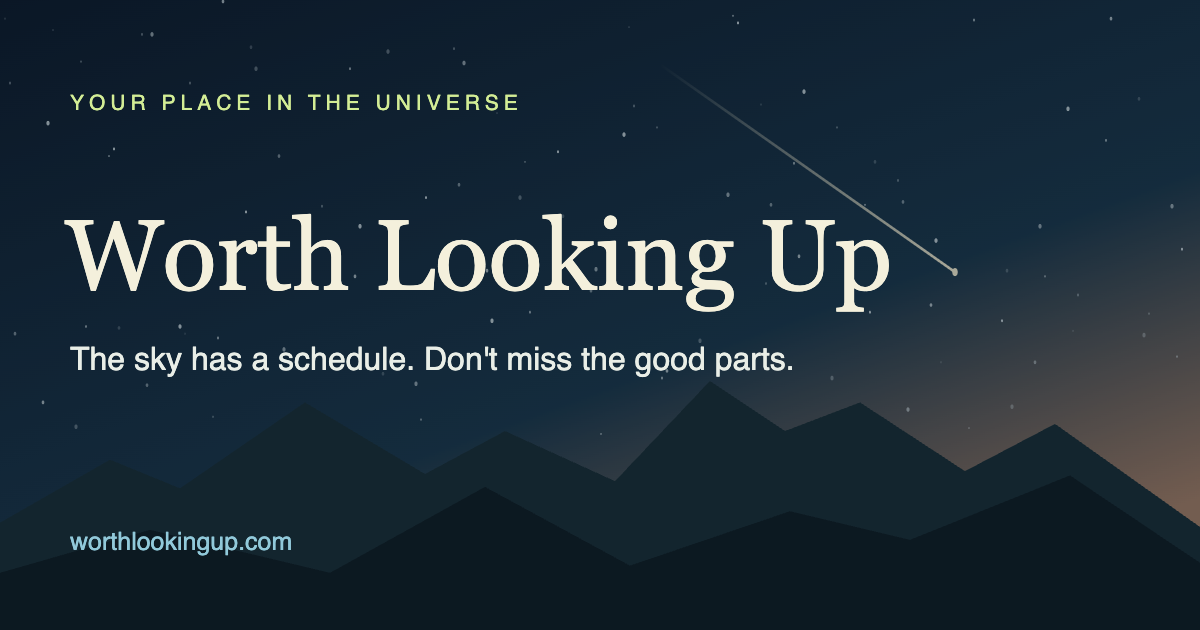
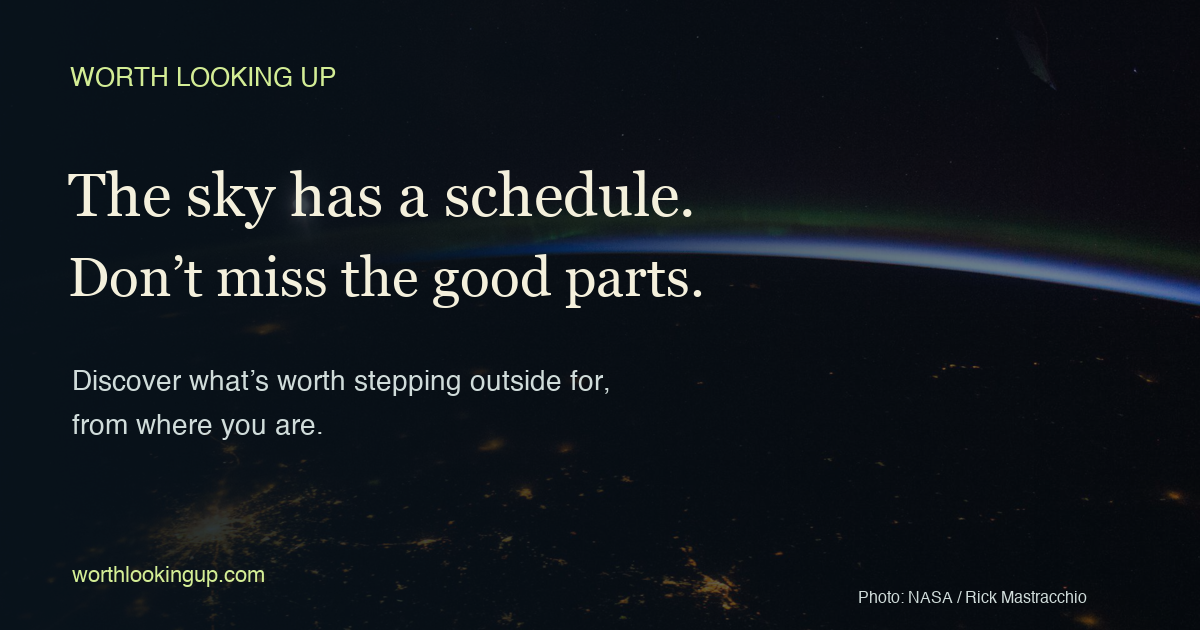
Bring photographic discovery and local observing highlights to the homepage

diff --git a/index.html b/index.html
@@ -14,9 +14,8 @@ document.querySelector('meta[name="theme-color"]').content=document.documentElem
 <meta property="og:type" content="website"><meta property="og:title" content="Worth Looking Up">
 <meta property="og:description" content="The sky has a schedule. Don't miss the good parts.">
 <meta property="og:url" content="https://worthlookingup.com/"><meta property="og:image" content="https://worthlookingup.com/assets/brand/social.png">
-<meta property="og:image:width" content="1200"><meta property="og:image:height" content="630"><meta property="og:image:alt" content="Worth Looking Up — illustrated meteor above a mountain horizon">
+<meta property="og:image:width" content="1200"><meta property="og:image:height" content="630"><meta property="og:image:alt" content="Worth Looking Up — Earth at night photographed from the ISS">
 <meta name="twitter:card" content="summary_large_image">
-<link rel="stylesheet" href="assets/brand/identity.css">
 <script src="preferences-transfer.js" defer></script>
 <script src="vendor/overhead/satellite-6.0.1.min.js" defer></script>
 <script src="vendor/overhead/suncalc-1.9.0.js" defer></script>
@@ -129,17 +128,21 @@ document.querySelector('meta[name="theme-color"]').content=document.documentElem
 .celestial-list{margin:0;padding-left:18px;display:grid;gap:4px;font-size:.85rem;color:var(--muted)}
 @media (max-width:720px){.celestial-card{padding:13px}}
 </style>
+<link rel="stylesheet" href="assets/brand/identity.css">
 </head>
 <body>
+<a class="skip-link" href="#categories">Skip to observing opportunities</a>
 <header><div><div class="brand"><img src="assets/icons/favicon.svg" width="36" height="36" alt="">WORTH LOOKING UP</div><div class="tagline">The sky has a schedule. Don't miss the good parts.</div></div><div class="header-actions"><button id="location-open" class="location-button"><span id="place">Princeton, Indiana ↗</span><span class="small" id="zone-label">Example observing location · change</span></button><button id="settings-open">Settings</button></div></header>
 <main>
 <section class="sky-intro" aria-label="Worth looking up, from where you are">
-<div class="sky-intro-copy"><p class="eyebrow">YOUR PLACE IN THE UNIVERSE</p><h2>A little perspective.<br>A very good reason to step outside.</h2><p>Know when the extraordinary is coming to your corner of the sky.</p><a href="#categories">Find your next sky moment <span aria-hidden="true">↗</span></a></div>
-<img src="assets/imagery/night-sky.svg" width="1200" height="440" alt="Illustration of a meteor crossing a star-filled sky above a mountain horizon" fetchpriority="high">
+<picture><source type="image/webp" srcset="assets/imagery/earth-at-night-640.webp 640w, assets/imagery/earth-at-night-1280.webp 1280w, assets/imagery/earth-at-night-1920.webp 1920w" sizes="(max-width: 720px) 100vw, 1280px"><img src="assets/imagery/earth-at-night.jpg" width="1280" height="851" alt="Earth’s curved horizon, aurora and Moon, photographed from the International Space Station" fetchpriority="high"></picture>
+<div class="sky-intro-copy"><p class="eyebrow">A LOCAL GUIDE TO THE NIGHT SKY</p><h2>Some nights deserve<br>an audience.</h2><p>Find what’s worth stepping outside to see.<br>From where you are. At just the right time.</p><a class="hero-action" href="#categories">Explore your sky <span aria-hidden="true">↓</span></a></div>
+<a class="photo-credit" href="https://images.nasa.gov/details/iss039e009160" target="_blank" rel="noopener">From the ISS · NASA / Rick Mastracchio ↗</a>
 </section>
 <div class="toolbar"><nav class="tabs" role="tablist" aria-label="Observing period"><button role="tab" data-view="now" aria-selected="false">NOW</button><button role="tab" data-view="tonight" aria-selected="true">TONIGHT</button><button role="tab" data-view="week" aria-selected="false">NEXT 7 DAYS</button><button role="tab" data-view="about" aria-selected="false">ABOUT</button></nav><span class="small" id="local-clock"></span></div>
 <section id="happening-now" class="happening-now" aria-label="Happening now" hidden></section>
-<div class="toolbar" id="categories"><nav class="tabs" role="tablist" aria-label="Observing category"><button role="tab" data-category="satellites" aria-selected="true">SATELLITES</button><button role="tab" data-category="launches" aria-selected="false">ROCKET LAUNCHES</button><button role="tab" data-category="planets" aria-selected="false">PLANETS &amp; ALIGNMENTS</button><button role="tab" data-category="meteors" aria-selected="false">METEOR SHOWERS</button><button role="tab" data-category="comets" aria-selected="false">COMETS &amp; SPECIAL EVENTS</button></nav><span class="small" id="category-note">Satellite passes and trains</span></div>
+<div class="toolbar" id="categories" tabindex="-1"><nav class="tabs" role="tablist" aria-label="Observing category"><button role="tab" data-category="satellites" aria-selected="true">SATELLITES</button><button role="tab" data-category="launches" aria-selected="false">ROCKET LAUNCHES</button><button role="tab" data-category="planets" aria-selected="false">PLANETS &amp; ALIGNMENTS</button><button role="tab" data-category="meteors" aria-selected="false">METEOR SHOWERS</button><button role="tab" data-category="comets" aria-selected="false">COMETS &amp; SPECIAL EVENTS</button></nav><span class="small" id="category-note">Satellite passes and trains</span></div>
+<section id="weekly-card" class="weekly-card" aria-label="Best Thing This Week"><div class="eyebrow">BEST THING THIS WEEK</div><p>Comparing seven nights of observations…</p></section>
 <section id="celestial" class="celestial" hidden aria-label="Celestial observing plan">
 <div class="celestial-head"><div><div class="eyebrow" id="celestial-eyebrow">PLANETS &amp; ALIGNMENTS</div><h1 id="celestial-headline">What is worth going outside for</h1><p class="small" id="celestial-summary">Choosing a planning window…</p></div><div class="night-score"><strong id="celestial-top-score">—</strong><span id="celestial-score-label">BEST OPPORTUNITY / 100</span></div></div>
 <div class="celestial-controls" role="radiogroup" aria-label="Planning window"><button type="button" role="radio" data-horizon="tonight" aria-checked="true">TONIGHT</button><button type="button" role="radio" data-horizon="week" aria-checked="false">NEXT 7 DAYS</button><button type="button" role="radio" data-horizon="extended" aria-checked="false">NEXT 90 DAYS</button></div>
@@ -152,7 +155,6 @@ document.querySelector('meta[name="theme-color"]').content=document.documentElem
 </section>
 <section class="briefing" aria-label="Observing briefing"><div><div class="eyebrow" id="night-label">YOUR EVENING FIELD NOTES</div><h1 id="headline">Let’s see what’s overhead.</h1><p id="brief">Checking orbital data and the forecast for your observing location.</p></div><div class="night-score"><strong id="night-score">—</strong><span>SKYWATCH SCORE / 100</span></div></section>
 <div id="status" class="status" role="status" aria-live="polite">Loading local calculation tools…</div><div class="progress" aria-hidden="true"><div id="progress"></div></div>
-<section id="weekly-card" class="weekly-card" aria-label="Best Thing This Week"><div class="eyebrow">BEST THING THIS WEEK</div><p>Comparing seven nights of observations…</p></section>
 <p id="weekly-tonight" class="small" hidden></p>
 <section id="about" class="about" hidden aria-label="About Worth Looking Up">
 <div class="eyebrow">ABOUT WORTH LOOKING UP</div>
@@ -240,12 +242,12 @@ document.querySelector('meta[name="theme-color"]').content=document.documentElem
 <details id="how-it-works"><summary>How the recommendation works</summary><p>The night’s score is the best remaining satellite opportunity among your selected categories. It is not a weather score. A “likely visible” segment needs at least 20 seconds above your minimum elevation, with the Sun at least 6° below the horizon and the spacecraft fully sunlit. Buildings, trees, haze and object orientation can still prevent a sighting.</p><p>Base points: elevation 25, useful visible duration 15, sunlight 10, observer darkness 15, brightness category 10, cloud cover 20, and visibility 5. Cloud, poor visibility and rain then reduce the total. Unknown weather earns no weather points and makes the result provisional. No precise apparent magnitude is claimed. <a href="docs/overhead.md">Full algorithm, validation and limitations →</a></p><p>The Moon panel is informational and does not raise the satellite score. A quiet satellite night can still be a lovely night for stargazing.</p></details>
 <details id="diagnostics"><summary>Data & diagnostics</summary><div class="actions"><button id="refresh">Refresh source data</button><button id="clear-cache">Clear downloaded cache</button><label class="text-button">Import OMM JSON / TLE<input id="import" type="file" accept=".json,.txt,.tle" aria-label="Import orbital elements"></label></div><p>Import up to 2 MB of orbital elements from a trusted source if CelesTrak is unavailable. Imported records stay in this session and use their actual epoch; records more than 14 days from a prediction are excluded.</p><pre id="diagnostic-output"></pre></details>
 </main>
-<!-- WORTHLOOKINGUP_DEPLOY_FOOTER version="2026.10.15.3" bump="Update this version whenever this file changes in a commit." (marker sits directly above the single site footer) -->
-<footer class="site-footer" data-worthlookingup-deploy-footer data-deploy-version="2026.10.15.3">
+<!-- WORTHLOOKINGUP_DEPLOY_FOOTER version="2026.10.15.4" bump="Update this version whenever this file changes in a commit." (marker sits directly above the single site footer) -->
+<footer class="site-footer" data-worthlookingup-deploy-footer data-deploy-version="2026.10.15.4">
 <div class="footer-tagline">CALCULATED HERE. OBSERVED OUT THERE.</div>
 <div class="footer-sources">Orbital data: <a href="https://celestrak.org/NORAD/elements/">CelesTrak</a> · Weather: <a href="https://open-meteo.com/">Open-Meteo</a> · Predictions calculated locally with SGP4 · No account or API key</div>
 <div id="freshness" class="footer-freshness">Source freshness will appear here.</div>
-<div class="footer-meta">© 2026 Hank Marquardt · Worth Looking Up · version 2026.10.15.3 · <a href="docs/privacy.md">Privacy &amp; data sources</a></div>
+<div class="footer-meta">© 2026 Hank Marquardt · Worth Looking Up · version 2026.10.15.4 · <a href="docs/privacy.md">Privacy &amp; data sources</a></div>
 </footer>
 <dialog id="location-dialog" aria-labelledby="location-title"><div class="dialog-heading"><h2 id="location-title">Where will you look up?</h2><button class="close" data-close aria-label="Close location settings">×</button></div><form id="search-form"><label>Search city or place<input id="search" placeholder="Princeton, London, Cape Town…" minlength="2" maxlength="100" required></label><div class="actions"><button type="submit">Search places</button><button type="button" id="geolocate">Use my location</button></div></form><div id="search-results" class="results"></div><p id="location-status" class="privacy" role="status"></p><form id="coordinate-form" class="grid" style="margin-top:20px"><label class="full">Location name<input id="location-name" maxlength="60" required></label><label>Latitude<input id="latitude" type="number" min="-90" max="90" step="any" required></label><label>Longitude<input id="longitude" type="number" min="-180" max="180" step="any" required></label><label class="full">Timezone (IANA name; blank for automatic lookup)<input id="timezone" placeholder="America/Chicago" maxlength="80"></label><button class="primary full" type="submit">Use this location</button></form><div class="actions"><button id="save-location">Save current location</button></div><div id="saved-locations"></div><p class="privacy">Coordinates go to Open-Meteo for weather and timezone lookup. Place searches go to its geocoding service. Saved sites stay in this browser (up to 12). This page includes the Worth Looking Up Analytics Lite tracker; map tiles load only when you open the map.</p></dialog>
 <dialog id="settings-dialog" aria-labelledby="settings-title"><div class="dialog-heading"><h2 id="settings-title">Make it your night</h2><button class="close" data-close aria-label="Close settings">×</button></div><form id="settings-form" class="grid"><label>Minimum elevation<select name="minimum"><option value="10">10° · open horizon</option><option value="20">20°</option><option value="30">30°</option><option value="45">45° · high overhead</option></select></label><label>Minimum sighting score<input name="score" type="number" min="0" max="100" step="1"></label><label class="full">Show<select name="show"><option value="likely">Likely visible</option><option value="great">Great opportunities only (75+)</option><option value="all">All calculated orbital passes</option></select></label><label>Units<select name="units"><option value="imperial">Imperial</option><option value="metric">Metric</option></select></label><label>Clock<select name="clock"><option value="12">12-hour</option><option value="24">24-hour</option></select></label><button type="submit" class="primary full">Apply settings</button></form><div class="theme-setting"><span id="theme-label">Appearance</span><div class="theme-switch" role="group" aria-labelledby="theme-label"><button type="button" data-theme-choice="light" aria-pressed="false" aria-label="Use light theme">☀ Light</button><button type="button" data-theme-choice="dark" aria-pressed="true" aria-label="Use dark theme">☾ Dark</button></div></div><details class="preferences-transfer"><summary>Move your saved places &amp; preferences</summary><p>Import an Overhead export or back up this device. Location, up to 12 saved sites, 100 favorites, settings and theme are included. Downloads and analytics identifiers are excluded. Import replaces these preferences on this device after validation; your original Overhead data stays intact.</p><div class="actions"><button type="button" id="preferences-export">Export preferences</button><label>Import preferences<input id="preferences-import" type="file" accept="application/json,.json"></label></div><p id="preferences-status" role="status" aria-live="polite"></p><p><a href="docs/storage-migration.md">How to export from the original Overhead →</a></p></details><p class="privacy">Map gestures are always conservative: wheel, pinch, rotation and double-click zoom are disabled. Use the explicit + / − buttons. Touch scrolling stays with the page.</p></dialog>

diff --git a/assets/brand/identity.css b/assets/brand/identity.css
@@ -1,1 +1,19 @@
-.brand{font-size:clamp(.85rem,1.6vw,1.25rem);letter-spacing:2px;line-height:1.3}.brand img{flex:none}.tagline{max-width:430px;line-height:1.5}.sky-intro{position:relative;isolation:isolate;overflow:hidden;min-height:230px;border:1px solid var(--line);border-radius:8px;margin:4px 0 26px;background:#0c1926;color:#f4f0dc}.sky-intro>img{position:absolute;inset:0;width:100%;height:100%;object-fit:cover;z-index:-1}.sky-intro-copy{padding:30px 32px;max-width:620px;background:linear-gradient(90deg,#0c1926e8,#0c192685,transparent)}.sky-intro .eyebrow{color:#d3ed95}.sky-intro h2{font-family:Georgia,'Times New Roman',serif;font-size:clamp(1.4rem,2.6vw,2.3rem);font-weight:400;line-height:1.15;margin:13px 0}.sky-intro-copy>p:not(.eyebrow){font-size:.85rem;color:#c6d8dd;line-height:1.6}.sky-intro a{display:inline-block;color:#e7efa6;font-size:.8rem;margin-top:16px;text-underline-offset:5px}.preferences-transfer{margin-top:16px}.preferences-transfer label{max-width:260px}@media(max-width:720px){header{flex-wrap:wrap;gap:12px}.header-actions{width:100%;justify-content:space-between}.location-button{text-align:left;padding-left:0}.sky-intro{min-height:200px;margin-bottom:18px}.sky-intro-copy{padding:22px 18px;max-width:90%}.sky-intro h2{font-size:1.6rem}.brand{font-size:1.02rem;letter-spacing:2px}.tagline{font-size:.72rem}.tabs{gap:16px}.sky-intro>img{object-position:65% center}}@media(prefers-reduced-motion:reduce){html{scroll-behavior:auto}}
+/* Editorial presentation; scientific palette meanings and application IDs are stable. */
+:root{--bg:#0d171e;--panel:#14232c;--line:#30434d;--ink:#f1f0e8;--muted:#adbdc4;--lime:#d3edaa;--blue:#a1cedf;--amber:#efc58f}
+:root[data-theme=light]{--bg:#f5f3ed;--panel:#fffef9;--line:#c5cdc9;--ink:#182c35;--muted:#4d626b;--lime:#355a29;--blue:#245b72;--amber:#80501d}
+body{line-height:1.5}header,main,.site-footer{max-width:1320px}header{padding-top:22px;padding-bottom:20px}.brand{font-size:clamp(.95rem,1.5vw,1.2rem);letter-spacing:2.1px;line-height:1.3;gap:10px}.brand img{flex:none}.tagline{line-height:1.5;font-size:.75rem;letter-spacing:0;margin-top:7px}.header-actions{gap:12px}.location-button{border:1px solid var(--line);text-align:left;padding:8px 14px;border-radius:5px;max-width:290px;overflow-wrap:anywhere;min-height:44px}#settings-open{position:static;min-height:44px;font-size:.8rem;padding:10px 13px}
+.skip-link{position:absolute;top:-100px;left:20px;z-index:10;background:var(--bg);padding:12px;border:2px solid var(--lime)}.skip-link:focus{top:10px}
+.sky-intro{position:relative;isolation:isolate;overflow:hidden;min-height:270px;border:1px solid var(--line);border-radius:6px;margin:0 0 18px;background:#0b1924 url('../imagery/night-sky.svg') center/cover;color:#f5f2e7}
+.sky-intro picture{position:absolute;inset:0;z-index:-2}.sky-intro picture img{width:100%;height:100%;object-fit:cover;object-position:center 58%;display:block}.sky-intro:after{content:'';position:absolute;inset:0;z-index:-1;background:linear-gradient(90deg,rgba(6,17,25,.97),rgba(6,17,25,.76) 38%,rgba(6,17,25,.06) 76%)}
+.sky-intro-copy{padding:26px 32px 30px;max-width:650px}.sky-intro .eyebrow{color:#d3edaa;font-size:.65rem;letter-spacing:2.3px}.sky-intro h2{font-family:Georgia,'Times New Roman',serif;font-size:clamp(2rem,3.8vw,3.3rem);font-weight:400;line-height:1.05;letter-spacing:-1.5px;margin:12px 0}.sky-intro-copy>p:not(.eyebrow){font-size:.87rem;color:#d4dfe2;line-height:1.6}.hero-action{display:inline-flex;align-items:center;gap:26px;min-height:44px;color:#e4f3c2;font-size:.82rem;text-decoration:none;border-bottom:1px solid #b6c696;margin-top:9px}.hero-action:hover{color:white}.photo-credit{position:absolute;right:14px;bottom:10px;font-size:.65rem;color:#e6ecee;background:#09151de6;padding:5px 8px;text-decoration:none;border-radius:3px}.photo-credit:hover{text-decoration:underline}
+.toolbar{margin-bottom:14px;gap:12px}.tabs{gap:25px}.tabs button{min-height:48px;padding:12px 0;letter-spacing:1px;font-size:.7rem}.toolbar>.small{font-size:.7rem}#categories{scroll-margin-top:12px;border-top:0;margin-bottom:18px}#categories .tabs{flex:1;gap:0;display:grid;grid-template-columns:repeat(5,minmax(0,1fr));overflow:visible}#categories .tabs button{padding:11px 10px;line-height:1.5;letter-spacing:.7px;font-size:.64rem;white-space:normal;text-align:center}#category-note{display:none}
+.weekly-card{position:relative;margin-bottom:22px;border:1px solid var(--line);border-left:3px solid var(--blue);border-radius:5px;padding:18px 22px;background:var(--panel)}.weekly-card .eyebrow{font-size:.65rem}.weekly-main{margin-top:6px;gap:8px 24px}.weekly-open{font-family:Georgia,'Times New Roman',serif;font-size:1.4rem;font-weight:400;line-height:1.25;min-height:44px}.weekly-open span{font-family:'Avenir Next',Avenir,'Segoe UI',sans-serif;font-size:.82rem;margin-top:5px}.weekly-grade{font-size:.76rem;padding:6px 9px}.weekly-facts{margin:7px 0 4px;font-size:.8rem}.weekly-context{margin-top:4px;font-size:.76rem;line-height:1.6}.weekly-scope{font-size:.69rem;margin-top:5px;line-height:1.6}
+.briefing{padding:2px 0 16px;gap:18px}.briefing h1{font-family:Georgia,'Times New Roman',serif;font-size:clamp(1.55rem,2.8vw,2.3rem);font-weight:400;line-height:1.15;margin:8px 0}.briefing p{font-size:.85rem;max-width:72ch}.night-score strong{font-size:3.6rem}.night-score{min-width:120px;padding-left:24px}.night-score span{font-size:.6rem}.status{margin-bottom:16px;padding:9px 12px;font-size:.76rem}.section-heading{margin-bottom:10px}.section-heading h2{font-size:1rem}.event{padding:20px 10px;border-radius:3px}.event h3{font-size:1.12rem;font-weight:600}.event .category{font-size:.63rem}.event .route{font-size:.8rem}.event .score{font-size:1.6rem}.event.selected{background:var(--panel)}.celestial-card{border-radius:6px;padding:20px;gap:12px;overflow-wrap:anywhere}.celestial-card h3{font-family:Georgia,'Times New Roman',serif;font-size:1.35rem;font-weight:400;line-height:1.3}.celestial-head h1{font-family:Georgia,'Times New Roman',serif;font-weight:400}.launch-card{border-top:2px solid var(--blue)}.launch-card .launch-unknown{border-left:2px solid var(--amber);padding-left:10px}.launch-links a{display:inline-flex;align-items:center;min-height:44px}.launch-countdown{font-size:1.35rem}.celestial-chip,.launch-status{white-space:normal}.celestial-source a{overflow-wrap:anywhere}.celestial-controls button,.chip{min-height:44px}.chart-panel{border-radius:6px}.site-footer{font-size:.73rem}.preferences-transfer{margin-top:16px}.preferences-transfer label{max-width:260px}
+@media(max-width:900px){header,main,.site-footer{padding-left:24px;padding-right:24px}.header-actions{gap:8px}.brand{letter-spacing:1.3px}.tagline{max-width:310px}.location-button{max-width:200px;font-size:.8rem}.sky-intro{min-height:255px}.sky-intro h2{font-size:2.6rem}.tabs{gap:20px}}
+@media(max-width:720px){header,main,.site-footer{padding-left:18px;padding-right:18px}header{display:grid;gap:12px;padding-top:16px;padding-bottom:14px}.brand{font-size:1.03rem;letter-spacing:1.7px}.brand img{width:30px;height:30px}.tagline{font-size:.68rem;max-width:none;margin-top:4px}.header-actions{width:100%;justify-content:space-between;gap:12px}.location-button{max-width:calc(100% - 88px);padding:5px 0;border:0;font-size:.8rem;min-height:44px}.location-button .small{font-size:.65rem}#settings-open{font-size:.74rem;padding:8px 11px}.sky-intro{min-height:210px;margin-bottom:10px}.sky-intro-copy{padding:17px 18px 28px;max-width:92%}.sky-intro .eyebrow{font-size:.55rem;letter-spacing:1.7px}.sky-intro h2{font-size:2rem;letter-spacing:-.8px;margin:9px 0}.sky-intro-copy>p:not(.eyebrow){font-size:.77rem;line-height:1.5}.hero-action{font-size:.77rem;margin-top:3px;min-height:44px}.sky-intro picture img{object-position:62% 55%}.sky-intro:after{background:linear-gradient(90deg,#061119f5,#0611199c 60%,#06111933)}.photo-credit{font-size:.54rem;bottom:5px;right:7px;padding:2px 5px}.toolbar{margin-bottom:8px}.tabs{gap:20px}.tabs button{font-size:.61rem;letter-spacing:.6px;min-height:44px;padding:10px 0}.toolbar>.small{display:none}#categories{margin-bottom:14px}#categories .tabs{grid-template-columns:repeat(3,minmax(0,1fr));gap:0 5px}#categories .tabs button{font-size:.59rem;padding:7px 3px;min-height:44px}#categories .tabs button:last-child{grid-column:span 2}.weekly-card{padding:12px 14px;margin-bottom:18px}.weekly-main{grid-template-columns:minmax(0,1fr);gap:6px}.weekly-open{font-size:1.2rem}.weekly-open span{font-size:.76rem}.weekly-grade{font-size:.7rem;padding:3px 7px}.weekly-facts{font-size:.75rem}.weekly-context{font-size:.72rem}.weekly-scope{font-size:.65rem}.briefing{padding-bottom:14px;gap:12px}.briefing h1{font-size:1.6rem}.briefing p{font-size:.8rem}.night-score{min-width:65px;padding-left:12px;margin-top:20px}.night-score strong{font-size:2.8rem}.night-score span{font-size:.54rem}.event{padding:18px 2px;grid-template-columns:72px minmax(0,1fr) 48px;gap:8px}.event h3{font-size:1.03rem}.event .route{font-size:.74rem}.celestial-card{padding:16px}.celestial-card h3{font-size:1.2rem}.launch-countdown{font-size:1.1rem}.celestial-head{gap:12px}.celestial-controls{gap:6px}.celestial-controls button{font-size:.72rem;padding:9px 11px}.launches-actions button{min-height:44px}.celestial-positions{font-size:.74rem}.section-heading small{max-width:120px}.filters{gap:6px;margin:10px 0}.chip{padding:7px 10px}.sky-intro a:focus-visible{outline-color:#e4f3c2}}
+@media(prefers-reduced-motion:reduce){html{scroll-behavior:auto}}
+/* Reserve the live weekly result before orbital workers finish, avoiding content jumps. */
+.weekly-card{min-height:255px}
+@media(max-width:900px) and (min-width:721px){.weekly-card{min-height:280px}}
+@media(max-width:720px){.weekly-card{min-height:350px}}
+@media(max-width:720px){.celestial-head{display:grid;grid-template-columns:minmax(0,1fr) 65px;align-items:start}.celestial-head .night-score{margin-top:24px;min-width:0;padding-left:10px}.celestial-head h1{font-size:1.6rem}.celestial-head .night-score strong{font-size:2.5rem}}

diff --git a/tests/homepage.spec.js b/tests/homepage.spec.js
@@ -1,0 +1,63 @@
+const {test,expect}=require('@playwright/test');
+const path=require('node:path');
+const fs=require('node:fs');
+const iss={OBJECT_NAME:'ISS (ZARYA)',OBJECT_ID:'1998-067A',EPOCH:'2026-09-07T11:57:47.376864',MEAN_MOTION:15.49018229,ECCENTRICITY:.00049836,INCLINATION:51.6306,RA_OF_ASC_NODE:252.7093,ARG_OF_PERICENTER:115.8922,MEAN_ANOMALY:244.258,NORAD_CAT_ID:25544,BSTAR:.00010434666,MEAN_MOTION_DOT:.00005306,MEAN_MOTION_DDOT:0};
+async function boot(page,{images=true}={}){
+ await page.clock.setFixedTime(new Date('2026-09-07T18:00Z'));
+ await page.route('**/api/analytics/**',r=>r.fulfill({status:204,body:''}));
+ await page.route('**celestrak.org/**',r=>r.fulfill({json:[iss]}));
+ await page.route('**api.open-meteo.com/**',r=>r.fulfill({json:{error:'unavailable'}}));
+ if(!images)await page.route('**/earth-at-night*',r=>r.abort());
+ await page.goto('file://'+path.resolve('index.html'));
+ await page.waitForFunction(()=>window.__OVERHEAD_TEST__&&!__OVERHEAD_TEST__.state.busy);
+ await expect(page.locator('.weekly-open')).toBeVisible();
+}
+test('photographic discovery exposes real opportunities, every category and both themes at all widths',async({page})=>{
+ await boot(page);
+ const evidence=[];
+ for(const width of [390,768,1280,1440]){
+  await page.setViewportSize({width,height:900});
+  for(const theme of ['dark','light']){
+   await page.evaluate(t=>document.querySelector('[data-theme-choice="'+t+'"]').click(),theme);
+   await expect(page.locator('.weekly-open')).toContainText('ISS');
+   await expect(page.locator('#weekly-card')).toContainText('Cloud forecast unavailable');
+   const geometry=await page.evaluate(()=>{
+    const r=s=>document.querySelector(s).getBoundingClientRect();
+    const location=r('#location-open'),settings=r('#settings-open');
+    return {width:innerWidth,scroll:document.documentElement.scrollWidth,hero:r('.sky-intro').height,highlight:r('.weekly-open').top,overlap:location.right>settings.left&&location.bottom>settings.top&&settings.bottom>location.top};
+   });
+   expect(geometry.scroll).toBe(geometry.width);expect(geometry.overlap).toBe(false);
+   expect(geometry.highlight).toBeLessThan(650);
+   if(width===390)expect(geometry.hero).toBeLessThan(240);
+   for(const tab of await page.locator('#categories [role=tab]').all()){
+    const box=await tab.boundingBox();expect(box.height).toBeGreaterThanOrEqual(44);expect(box.x).toBeGreaterThanOrEqual(0);expect(box.x+box.width).toBeLessThanOrEqual(width);
+   }
+   const img=page.locator('.sky-intro img');expect(await img.evaluate(e=>e.complete&&e.naturalWidth>0)).toBe(true);
+   expect(await img.evaluate(e=>e.currentSrc)).toMatch(/earth-at-night-\d+\.webp/);
+   await page.screenshot({path:`/tmp/wlu-final-${theme}-${width}.png`,fullPage:true});evidence.push({...geometry,theme});
+  }
+ }
+ fs.writeFileSync('/tmp/wlu-responsive.json',JSON.stringify(evidence,null,2));
+ await page.evaluate(()=>window.scrollTo(0,0));await page.keyboard.press('Tab');
+ await expect(page.locator('.skip-link')).toBeFocused();await page.keyboard.press('Enter');
+ await expect(page.locator('#categories')).toBeFocused();
+ const tabs=page.locator('#categories [role=tab]');await tabs.first().focus();await page.keyboard.press('ArrowRight');
+ await expect(tabs.nth(1)).toBeFocused();await tabs.first().click();
+ await page.locator('#location-open').click();await expect(page.locator('#location-dialog')).toBeVisible();await page.keyboard.press('Escape');
+ await page.locator('.weekly-open').click();await expect(page.locator('#event-dialog')).toBeVisible();await page.keyboard.press('Escape');
+});
+test('failed photographs preserve the hero action, geometry and calculated event',async({page})=>{
+ await page.setViewportSize({width:390,height:900});await boot(page,{images:false});
+ await expect(page.locator('.sky-intro h2')).toHaveText('Some nights deservean audience.');
+ await expect(page.getByRole('link',{name:'Explore your sky'})).toBeVisible();
+ expect(await page.locator('.sky-intro').evaluate(e=>getComputedStyle(e).backgroundImage)).toContain('night-sky.svg');
+ expect((await page.locator('.sky-intro').boundingBox()).height).toBeLessThan(240);
+ await page.getByRole('link',{name:'Explore your sky'}).click();await expect(page.locator('#categories')).toBeFocused();
+ await expect(page.locator('.weekly-open')).toContainText('ISS');
+});
+test('every responsive photograph is local, staged, and covered by source provenance',async()=>{
+ const provenance=JSON.parse(fs.readFileSync('assets/provenance.json'));
+ const photo=provenance.assets.find(x=>x.creator.includes('Mastracchio'));
+ expect(photo.license_url).toBe('https://www.nasa.gov/nasa-brand-center/images-and-media/');
+ for(const file of photo.paths){expect(fs.existsSync('assets/'+file)).toBe(true);expect(fs.readFileSync('dist/assets/'+file)).toEqual(fs.readFileSync('assets/'+file));}
+});

diff --git a/docs/phase-2-release.md b/docs/phase-2-release.md
@@ -1,0 +1,77 @@
+# Photographic homepage release — 2026.10.15.4
+
+## Result
+A compact NASA Earth-at-night hero, editorial typography, dark ink and warm paper themes,
+visible location control, all five categories visible on mobile, and the existing calculated weekly
+highlight before the detailed briefing. No new ranking, feed requests, framework or client dependency.
+Astronomy engines, scientific fixtures, lifecycle, storage schema and scoring are unchanged.
+
+## Measurements
+Chrome headless, 900px viewport height, same deterministic ISS orbit and fixed 2026-09-07 clock,
+weather unavailable to exercise honest provisional labels. Coordinates are document CSS pixels.
+The first useful event is the existing weekly calculated opportunity button, not the hero CTA.
+
+| Width | Highlight before → after | Event-list row before → after | Hero before → after | CLS before → after | LCP before → after (ms) |
+| --- | --- | --- | --- | --- | --- |
+| 390 | 963 → 558 | 1497 → 1318 | 243 → 222 | .034 → .015 | 120 → 184 |
+| 768 | 842 → 569 | 1242 → 1177 | 230 → 273 | .016 → .060 | 68 → 64 |
+| 1280 | 860 → 584 | 1205 → 1130 | 235 → 294 | .005 → .001 | 60 → 88 |
+| 1440 | 867 → 586 | 1212 → 1131 | 238 → 295 | .004 → .001 | 56 → 64 |
+
+These are local unthrottled single-run lab observations, not field Core Web Vitals or a mobile-network
+performance claim. The photo is 9.1KB at 640px, 31KB at 1280px, 84KB at 1920px; JPEG fallback 89KB.
+Reserved weekly-card height removes the initial draft's .276 mobile CLS. Tablet remains .060, primarily
+asynchronous briefing/data changes; all observed totals below .1. Arbitrarily long content can grow.
+Do not hide warnings to improve geometry. No horizontal overflow at any tested width in either theme.
+
+## Visual evidence
+Actual production-before screenshots were captured in Chrome. The production-before and local
+fixture render had identical geometry. After screenshots use the same deterministic orbit, with
+explicit missing-weather/provisional warnings. Inspect:
+- [Before mobile](screenshots/before-mobile.png), [before desktop](screenshots/before-desktop.png).
+- [After mobile dark](screenshots/after-mobile-dark.png), [desktop dark](screenshots/after-desktop-dark.png).
+- [After mobile light](screenshots/after-mobile-light.png), [desktop light](screenshots/after-desktop-light.png).
+Full four-width/two-theme captures also at /tmp/wlu-final-{dark,light}-{390,768,1280,1440}.png.
+Launch screenshots at /tmp/worthlookingup-launches-{dark,light}-{390,768,1024,1440}.png.
+
+## Rights and accessibility
+One photograph: NASA/JSC iss039e009160, Rick Mastracchio, Expedition 39. Catalog and NASA media-use
+policy inspected; named astronaut photographer, no third-party credit, no identifiable person or NASA
+logo in frame. Credit is visible and linked. Full source, policy, dates and modifications are in
+assets/provenance.json. Original illustration remains a local background if the photo cannot load.
+Sharing preview uses the same credited photo, locally served. No endorsement claimed.
+
+Added keyboard skip link; all category controls and primary actions have 44px minimum height.
+Focus rings, dialogs, reduced motion, charts, sources and uncertainty labels retained. Both themes
+visually inspected. Image-failure test preserves content/action/geometry. No formal screen-reader
+or complete WCAG audit was performed. Launch visibility remains unknown and optical-aid/cloud/
+precision labels remain text, with existing semantic colors. No global launch enters local scores.
+
+## Checks
+- npm ci completed.
+- npm test: scientific, launch, migration, source hashes, storage and redirect suites passed unchanged.
+- Existing browser suite: 32 passed, 2 opt-in live-provider tests skipped.
+- New homepage suite: 3 passed (hierarchy, all widths/themes, keyboard/dialogs, photo failure, staged assets).
+- Python precision: 6 passed; comet --check, comet --no-network and meteor --check passed.
+- npm run build, npm run check and launch-feed offline validation passed.
+- Production verifier now checks every photo derivative's exact deployed bytes as well as the
+  existing HTML, scientific hashes, workers, static assets, real 404 and ten redirect chains.
+
+## Scheduled ingestion
+Verified genuine event `schedule`, successful run 38788844841:
+https://github.com/hmarquardt/worthlookingup/actions/runs/38788844841
+Its refresh, offline validation, commit, Pages publish and deployed-feed verification steps all passed.
+Independent GET /api/launches.json returned generated_at 2026-10-15T18:49:55.904Z, stale=false,
+served_from=committed-feed at 19:30:23Z. Hourly cron remains minute 37. No KV introduced.
+
+## Release evidence
+Commit, Actions/deployment and final independent production verification are recorded in
+migration-status.md after release. Ordinary main push only; preserve scheduled bot history.
+
+## Limits and next improvement
+One verified photograph deliberately replaces an unverified stock library. No new cross-category
+ranking. First list row remains below the fold; the useful weekly opportunity is now above it.
+Real-world weather/orbit source outages still produce honest fallback warnings. Recommended next:
+a compact, explicitly scoped cross-category upcoming-events overview using existing engine outputs,
+with local opportunities separate from globally scheduled launches. It needs a product decision on
+comparison semantics before any new ranking.

diff --git a/docs/design.md b/docs/design.md
@@ -1,0 +1,36 @@
+# Worth Looking Up: photographic discovery
+
+Release direction, 2026-10-15. Preserve the vanilla application and every scientific source hash.
+
+## Composition
+Use an editorial Earth-at-night photograph, a warm serif headline and compact, plainly labelled
+controls. The hero answers what the application does; the header always exposes the current place.
+Keep the hero under 240px on phones. Move the existing weekly opportunity above the briefing so a
+real calculated event reaches the first viewport. Do not introduce cross-category ranking or fetch
+extra feeds for a decorative overview. All five categories remain visible on phones; the calendar's
+90-day horizon stays in the category view.
+
+## Reusable patterns
+- Ink/navy dark surfaces, paper light surfaces, sage actions and muted blue information. Use semantic
+  palette variables so charts, confidence chips and dialogs retain their established meanings.
+- Serif only for editorial headings; system sans for controls and content; tabular numerals for time.
+- Photograph only in the introduction and sharing preview. Cards remain readable, compact text.
+- Scores mean local calculated opportunities. Amber visibility-unknown labels on launch cards remain
+  distinct from green scheduling status. Preserve optical-aid, weather, freshness and precision copy.
+- Minimum 44px primary controls, visible focus, real headings, skip link, no decorative animation.
+- Fixed image geometry and a dark background keep the hero useful if photography fails. The original
+  local illustration is the fallback background. Photography is contextual, never today's forecast.
+
+## Photography
+NASA/JSC image iss039e009160: Earth, aurora and Moon from the ISS, photographed by astronaut
+Rick Mastracchio (2014-04-02). NASA catalog explicitly identifies the photographer and mission;
+NASA media guidelines allow informational use of NASA material, subject to third-party exceptions
+and no endorsement. No people, logos or third-party credit appear in this asset. Show a source credit
+on the hero. Source/rights URLs, derivative dimensions and acquisition date are in assets/provenance.json.
+Use locally served WebP at 640/1280/1920px with JPEG fallback, no third-party font or image requests.
+Retain original vector artwork; do not imply photographic evidence for an event or local aurora.
+
+## Verification
+Record deterministic before/after geometry, local lab LCP/CLS (not field Core Web Vitals), actual
+screenshots, production byte checks and Actions evidence in docs/phase-2-release.md. Existing
+scientific, lifecycle, storage and launch tests must remain unchanged and passing.

diff --git a/docs/migration-status.md b/docs/migration-status.md
@@ -177,3 +177,15 @@ route propagation; persistent failures still fail. No scientific/application cha
 - Final documentation-only handoff uses [skip ci]; application deployment/CI evidence above refers
   to repair commit 6e914f3. No additional code changes require deployment.
 - Remaining actions for this repair: none.
+
+## Phase 2 photographic discovery — implementation checkpoint
+- Clean main checkout recovered at e413c07; initial sandbox fetch failed on FETCH_HEAD permissions,
+  then authorized fetch succeeded. No uncommitted work existed; no prior work discarded.
+- Release 2026.10.15.4 implements NASA photography, responsive discovery and existing weekly highlight
+  before briefing. All scientific source hashes unchanged. See design.md and phase-2-release.md.
+- Scientific/migration/launch tests passed; existing browser 32 passed, 2 live skips; 3 new homepage
+  tests passed. Python precision 6 passed and both builders/offline comet checks passed.
+- Actual scheduled ingestion run 38788844841 succeeded including publish and feed verification;
+  independently observed fresh committed feed. No KV or credentials created.
+- Next: commit, synchronize/push main, verify complete Actions deployment, exact production assets,
+  redirects, workers and feed, then append final release evidence.

diff --git a/readme.md b/readme.md
@@ -11,6 +11,10 @@ exactly how precise each schedule is, and labels local visibility unknown becaus
 rocket or an illuminated plume needs the ascent trajectory. Launch schedules never enter the satellite
 or celestial scores. See [docs/launches.md](docs/launches.md).
 
+The photographic homepage brings the existing calculated weekly highlight before the detailed briefing.
+All categories remain directly accessible on mobile. See [design patterns](docs/design.md),
+[asset provenance](assets/provenance.json), and [Phase 2 release evidence](docs/phase-2-release.md).
+
 ## Develop and verify
 
 ```sh
@@ -41,6 +45,6 @@ Read [agent instructions](agents.md), [architecture and inventory](docs/migratio
 [scientific reference](docs/overhead.md), and the [launch engine boundary](src/launches/readme.md).
 All repository paths are lowercase, including agents.md, to honor the migration naming rule.
 
-Release: 2026.10.15.3. Canonical production host: https://worthlookingup.com/.
+Release: 2026.10.15.4. Canonical production host: https://worthlookingup.com/.
 Extracted from Overhead without changing the scientific engines; source hashes are recorded
 in docs/source-manifest.json. Reference docs describing old releases are historical.

diff --git a/docs/deployment.md b/docs/deployment.md
@@ -92,3 +92,9 @@ strict verifier every 5 seconds, for at most 2 minutes. Every failed attempt is 
 persistent failure exits nonzero; no content or redirect assertion is relaxed. Without --wait a
 manual invocation fails immediately. This was observed in run 38765012826: deploy succeeded, its
 first probe still saw www 200, and an independent subsequent probe passed all ten full chains.
+
+## Photographic homepage release
+The 2026.10.15.4 verifier checks all local responsive WebP/JPEG photo bytes as well as the existing
+brand/social/worker/scientific assets. Asset rights and crops live in assets/provenance.json. See
+[Phase 2 evidence](phase-2-release.md) and [design patterns](design.md). Homepage layout checks run
+in tests/homepage.spec.js. Documentation screenshots are intentionally included under public docs.
